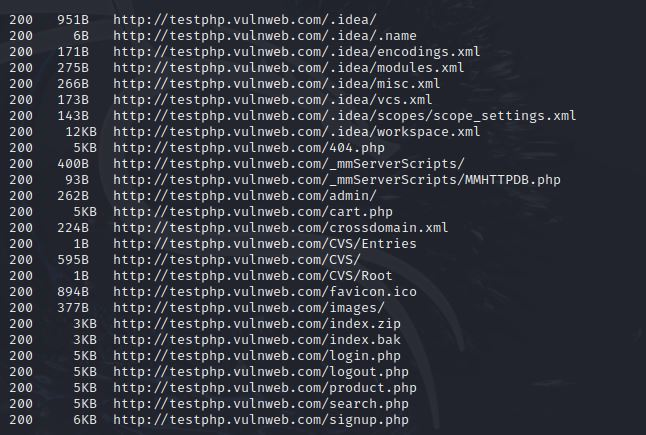
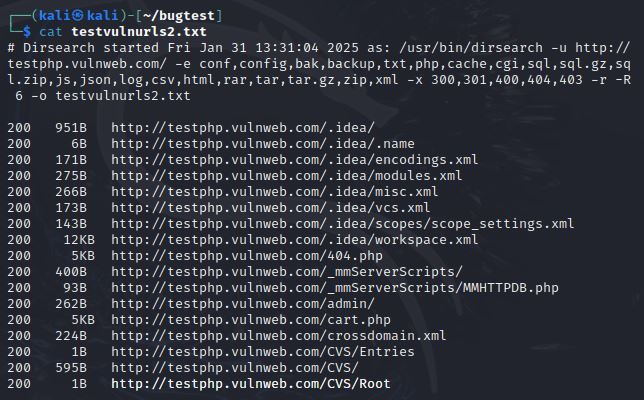
Update

Changed region(s): [[0.0, 0.0, 0.9938, 0.99], [0.9627, 0.09, 0.9938, 0.12]]

diff --git a/tools/content discovery/dirsearch.md b/tools/content discovery/dirsearch.md
@@ -40,4 +40,6 @@ dirsearch -u url -e conf,config,bak,backup,txt,php,cache,cgi,sql,sql.gz,sql.zip,
 
 ![alt text](https://github.com/rahardian-dwi-saputra/bugbounty-tools/blob/main/assets/dirsearch/dirsearch%205.JPG)
 
+- Contoh hasil
+
 ![alt text](https://github.com/rahardian-dwi-saputra/bugbounty-tools/blob/main/assets/dirsearch/dirsearch%206.JPG)
